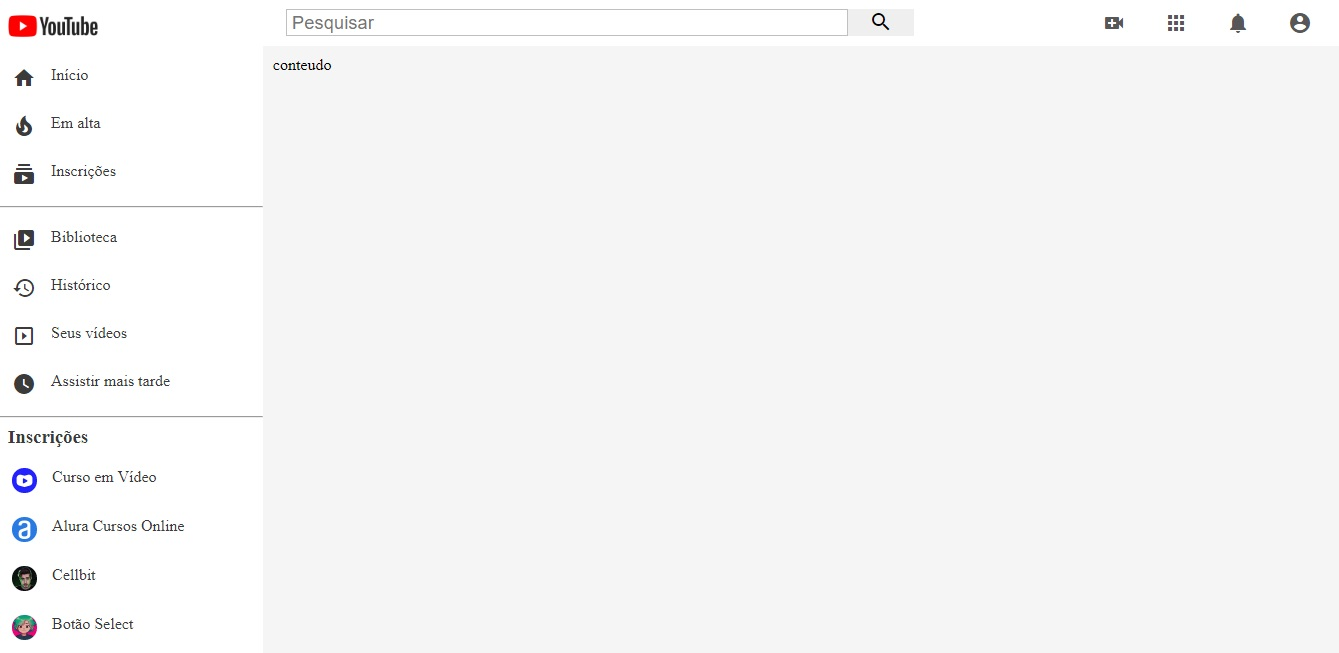
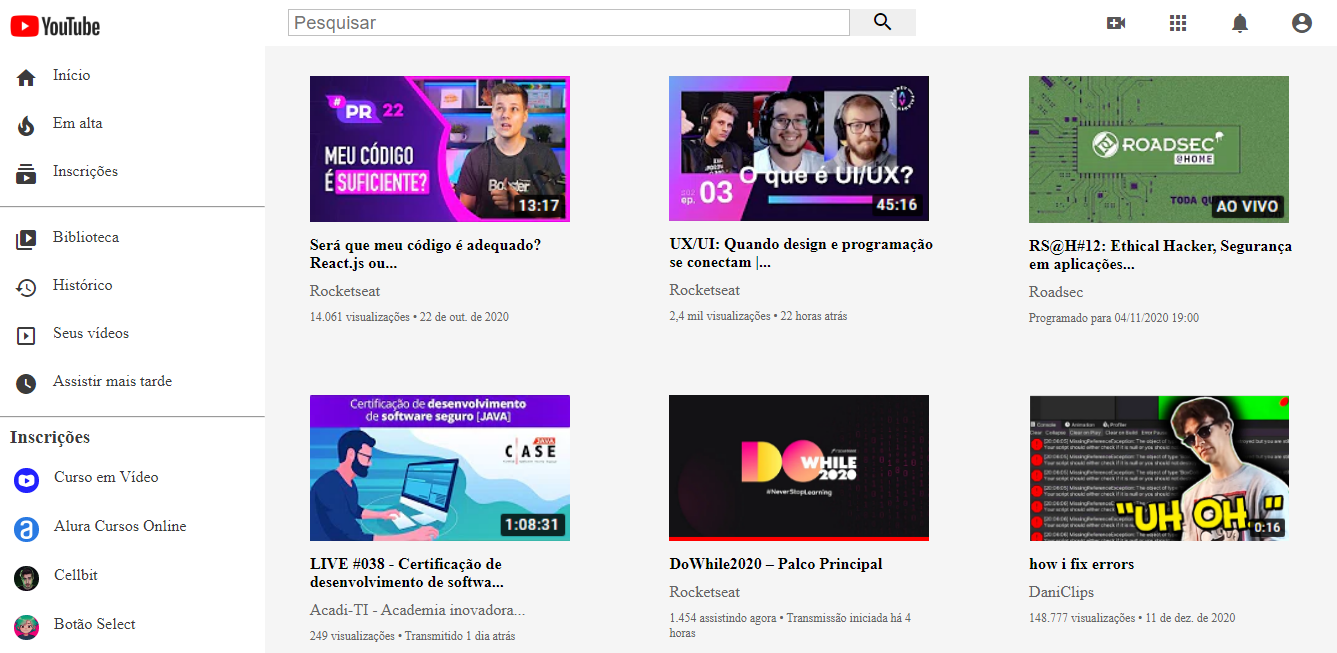
mvp final update

diff --git a/index.html b/index.html
@@ -3,63 +3,155 @@
 <html>
 
 <!-- Metadados da pagina -->
+
 <head>
-	<!-- Titulo da aba -->
-	<title>Youtube</title>
-	<!-- Caracteres Brasileiros -->
-	<meta charset="utf-8" />
-	<!-- Folha de estilos -->
-	<link href="style.css" rel="stylesheet" />
-	<!-- Icones -->
-	<link href="https://fonts.googleapis.com/icon?family=Material+Icons" rel="stylesheet">
+    <!-- Titulo da aba -->
+    <title>Youtube</title>
+    <!-- Caracteres Brasileiros -->
+    <meta charset="utf-8" />
+    <!-- Folha de estilos -->
+    <link href="style.css" rel="stylesheet" />
+    <!-- Icones -->
+    <link href="https://fonts.googleapis.com/icon?family=Material+Icons" rel="stylesheet">
 </head>
 
 <!-- Corpo do documento -->
-<body>
-	<div class="container">
-		<!-- Menu superior -->
-		<div class="menu-superior">
-			<!-- Logo -->
-			<img class="yt-logo" src="./assets/Youtube-Logo.png"/>
-			<!-- Barra de pesquisa -->
-			<div class="barra-de-busca">
-				<input class="input" type="text" placeholder="Pesquisar">
-				<button class="lupa">
-					<i class="material-icons lupa">search</i>
-				</button>
-			</div>
-			<!-- Icones do usuario -->
-			<div class="user-icons">
-				<i class="material-icons">video_call</i>
-				<i class="material-icons">apps</i>
-				<i class="material-icons">notifications</i>
-				<i class="material-icons">account_circle</i>
-			</div>
-		</div>
-		<!-- Menu lateral -->
-		<div class="menu-lateral">
-			<p> <i class="material-icons">home</i> Início </p>
-			<p> <i class="material-icons">local_fire_department</i> Em alta </p>
-			<p> <i class="material-icons">subscriptions</i> Inscrições</p>
-			<hr>
-			<p> <i class="material-icons">video_library</i> Biblioteca</p>
-			<p> <i class="material-icons">history</i> Histórico</p>
-			<p> <i class="material-icons">slideshow</i> Seus vídeos</p>
-			<p> <i class="material-icons">watch_later</i> Assistir mais tarde</p>
-			<hr>
-			<h3>Inscrições</h3>
-			<p> <img class="inscricoes" src="assets/inscricao-1.jpg"> Curso em Vídeo</p>
-			<p> <img class="inscricoes" src="assets/inscricao-2.jpg"> Alura Cursos Online</p>
-			<p> <img class="inscricoes" src="assets/inscricao-3.jpg"> Cellbit</p>
-			<p> <img class="inscricoes" src="assets/inscricao-4.jpg"> Botão Select</p>
-			<p> <img class="inscricoes" src="assets/inscricao-5.jpg"> 52Kards</p>
-			<p> <img class="inscricoes" src="assets/inscricao-6.jpg"> Ciência todo dia</p>
-			<p> <img class="inscricoes" src="assets/inscricao-7.jpg"> Diolinux</p>
-			<p> <img class="inscricoes" src="assets/inscricao-8.jpg"> Alan Becker</p>
-    </div>
-		<!-- Grade de videos -->
-		<div class="conteudo">conteudo</div>
-	</div>
-</body>
 
-</html>
+<body>
+    <div class="container">
+        <!-- Menu superior -->
+        <div class="menu-superior">
+            <!-- Logo -->
+            <img class="yt-logo" src="./assets/Youtube-Logo.png" />
+            <!-- Barra de pesquisa -->
+            <div class="barra-de-busca">
+                <input class="input" type="text" placeholder="Pesquisar">
+                <button class="lupa">
+                    <i class="material-icons lupa">search</i>
+                </button>
+            </div>
+            <!-- Icones do usuario -->
+            <div class="user-icons">
+                <i class="material-icons">video_call</i>
+                <i class="material-icons">apps</i>
+                <i class="material-icons">notifications</i>
+                <i class="material-icons">account_circle</i>
+            </div>
+        </div>
+        <!-- Menu lateral -->
+        <div class="menu-lateral">
+            <p> <i class="material-icons">home</i> Início </p>
+            <p> <i class="material-icons">local_fire_department</i> Em alta </p>
+            <p> <i class="material-icons">subscriptions</i> Inscrições</p>
+            <hr>
+            <p> <i class="material-icons">video_library</i> Biblioteca</p>
+            <p> <i class="material-icons">history</i> Histórico</p>
+            <p> <i class="material-icons">slideshow</i> Seus vídeos</p>
+            <p> <i class="material-icons">watch_later</i> Assistir mais tarde</p>
+            <hr>
+            <h3>Inscrições</h3>
+            <p> <img class="inscricoes" src="assets/canais/inscricao-1.jpg"> Curso em Vídeo</p>
+            <p> <img class="inscricoes" src="assets/canais/inscricao-2.jpg"> Alura Cursos Online</p>
+            <p> <img class="inscricoes" src="assets/canais/inscricao-3.jpg"> Cellbit</p>
+            <p> <img class="inscricoes" src="assets/canais/inscricao-4.jpg"> Botão Select</p>
+            <p> <img class="inscricoes" src="assets/canais/inscricao-5.jpg"> 52Kards</p>
+            <p> <img class="inscricoes" src="assets/canais/inscricao-6.jpg"> Ciência todo dia</p>
+            <p> <img class="inscricoes" src="assets/canais/inscricao-7.jpg"> Diolinux</p>
+            <p> <img class="inscricoes" src="assets/canais/inscricao-8.jpg"> Alan Becker</p>
+            <p> <img class="inscricoes" src="assets/canais/inscricao-9.jpg"> Antídoto</p>
+            <p> <img class="inscricoes" src="assets/canais/inscricao-10.jpg"> Coding Artist</p>
+            <p> <img class="inscricoes" src="assets/canais/inscricao-11.jpg"> Guru da Ciência</p>
+        </div>
+        <!-- Grade de videos -->
+        <div class="conteudo">
+            <div class="video-card">
+                <!-- video -->
+                <img src="assets/videos/video-1.png">
+                <!-- titulo -->
+                <div class="video-title">Será que meu código é adequado? React.js ou...</div>
+                <!-- canal -->
+                <div class="video-chanel">Rocketseat</div>
+                <!-- metadata -->
+                <div class="video-data">14.061 visualizações • 22 de out. de 2020</div>
+            </div>
+            <div class="video-card">
+                <!-- video -->
+                <img src="assets/videos/video-2.png">
+                <!-- titulo -->
+                <div class="video-title">UX/UI: Quando design e programação se conectam |...</div>
+                <!-- canal -->
+                <div class="video-chanel">Rocketseat</div>
+                <!-- metadata -->
+                <div class="video-data">2,4 mil visualizações • 22 horas atrás</div>
+            </div>
+            <div class="video-card">
+                <!-- video -->
+                <img src="assets/videos/video-3.png">
+                <!-- titulo -->
+                <div class="video-title">RS@H#12: Ethical Hacker, Segurança em aplicações...</div>
+                <!-- canal -->
+                <div class="video-chanel">Roadsec</div>
+                <!-- metadata -->
+                <div class="video-data">Programado para 04/11/2020 19:00</div>
+            </div>
+            <div class="video-card">
+                <!-- video -->
+                <img src="assets/videos/video-4.png">
+                <!-- titulo -->
+                <div class="video-title">LIVE #038 - Certificação de desenvolvimento de softwa...</div>
+                <!-- canal -->
+                <div class="video-chanel">Acadi-TI - Academia inovadora...</div>
+                <!-- metadata -->
+                <div class="video-data">249 visualizações • Transmitido 1 dia atrás</div>
+            </div>
+            <div class="video-card">
+                <!-- video -->
+                <img src="assets/videos/video-5.png">
+                <!-- titulo -->
+                <div class="video-title">DoWhile2020 – Palco Principal</div>
+                <!-- canal -->
+                <div class="video-chanel">Rocketseat</div>
+                <!-- metadata -->
+                <div class="video-data">1.454 assistindo agora • Transmissão iniciada há 4 horas</div>
+            </div>
+            <div class="video-card">
+                <!-- video -->
+                <img src="assets/videos/video-6.png">
+                <!-- titulo -->
+                <div class="video-title">how i fix errors</div>
+                <!-- canal -->
+                <div class="video-chanel">DaniClips</div>
+                <!-- metadata -->
+                <div class="video-data">148.777 visualizações • 11 de dez. de 2020</div>
+            </div>
+            <div class="video-card">
+                <!-- video -->
+                <img src="assets/videos/video-7.png">
+                <!-- titulo -->
+                <div class="video-title">If Programming Was An Anime</div>
+                <!-- canal -->
+                <div class="video-chanel">Joma Tech</div>
+                <!-- metadata -->
+                <div class="video-data">5.097.833 visualizações • 24 de fev. de 2020</div>
+            </div>
+            <div class="video-card">
+                <!-- video -->
+                <img src="assets/videos/video-8.png">
+                <!-- titulo -->
+                <div class="video-title">we deleted light theme</div>
+                <!-- canal -->
+                <div class="video-chanel">Discord</div>
+                <!-- metadata -->
+                <div class="video-data">1.934.472 visualizações • 31 de mar. de 2019</div>
+            </div>
+            <div class="video-card">
+                <!-- video -->
+                <img src="assets/videos/video-9.png">
+                <!-- titulo -->
+                <div class="video-title">Solving a JavaScript crackme: JS SAFE 2.0 (we..</div>
+                <!-- canal -->
+                <div class="video-chanel">LiveOverflow</div>
+                <!-- metadata -->
+                <div class="video-data">431.519 visualizações • 28 de jun. de 2018</div>
+            </div>
+</body>

diff --git a/style.css b/style.css
@@ -38,6 +38,7 @@ body {
 	border-radius: 0;
 	border: none;
 	cursor: pointer;
+    font-size: 10px;
 }
 .user-icons {
 	font-size: 200%;
@@ -78,8 +79,33 @@ h3, .inscricoes {
 
 /* Grade de videos */
 .conteudo {
+  display: flex;
+  justify-content: space-around;
+  flex-wrap: wrap;
   grid-area: conteudo;
-  padding: 10px;
   background-color: whitesmoke;
-  height: 130%;
+  height: 125%;
+}
+.video-card {
+  padding: 10px;
+  margin-top: 20px;
+  width: 270px;
+  height: 215px;
+  cursor: pointer;
+}
+.video-card img {
+  width: 260px;
+}
+.video-title {
+  font-weight: bold;
+  margin-bottom: 10px;
+  margin-top: 10px;
+}
+.video-chanel {
+  color: rgb(100, 100, 100);
+  margin-bottom: 10px;
+}
+.video-data {
+  color: rgb(100, 100, 100);
+  font-size: 12px;
 }

diff --git a/README.md b/README.md
@@ -2,38 +2,9 @@
     < 🎬 > <br>
     Youtube clone - Em desenvolvimento
 </h1>
-  
-<h4 align="center">
-  Um clone da interface do Youtube
-</h4>
-
+    
 <p align="center">
-  <a href="https://github.com/nerd0000">
-    <img alt="Feito por Alan" src="https://img.shields.io/badge/made%20by-Alan-8743CC">
-  </a>
-
-  <img alt="Contribuidores" src="https://img.shields.io/github/contributors/Nerd0000/Youtube-clone">
-
-  <img alt="GitHub top language" src="https://img.shields.io/github/languages/top/Nerd0000/Youtube-clone.svg">
-
-  <img alt="GitHub language count" src="https://img.shields.io/github/languages/count/Nerd0000/Youtube-clone.svg">
-
-  <img alt="Repository size" src="https://img.shields.io/github/repo-size/Nerd0000/Youtube-clone.svg">
-
-  <a href="https://github.com/Nerd0000/instagram-ui/commits/master">
-    <img alt="GitHub last commit" src="https://img.shields.io/github/last-commit/Nerd0000/Youtube-clone.svg">
-  </a>
-</p>
-
-<p align="center">
-  <a href="https://nerd0000.github.io/Youtube-clone/">Acessar aplicação</a>
+  <a href="https://nerd00f.github.io/Youtube-clone/">Acessar aplicação</a>
   <br> <br>
   <img src="https://github.com/Nerd0000/Youtube-clone/blob/master/foto.jpg"></img>
 </p>
-
-## 🚀 Tecnologias utilizadas
-
-Este projeto foi desenvolvido com as seguintes tecnologias:
-
-- Html
-- Css
